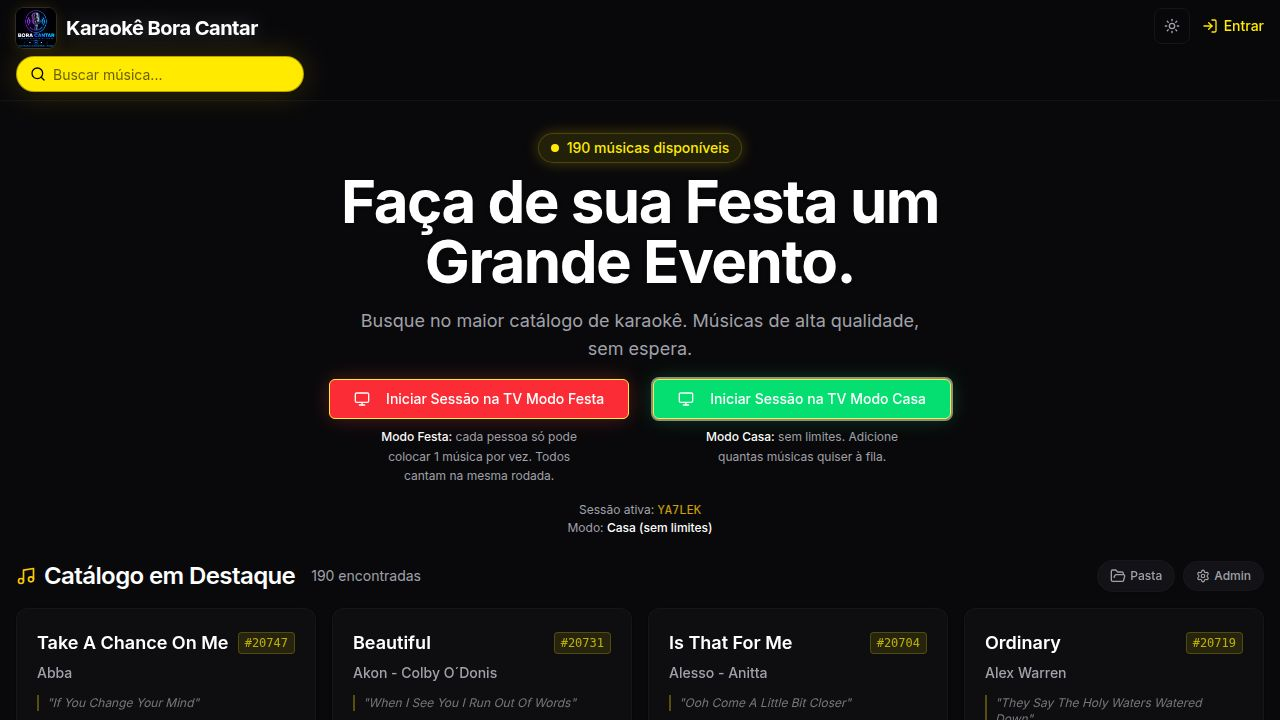
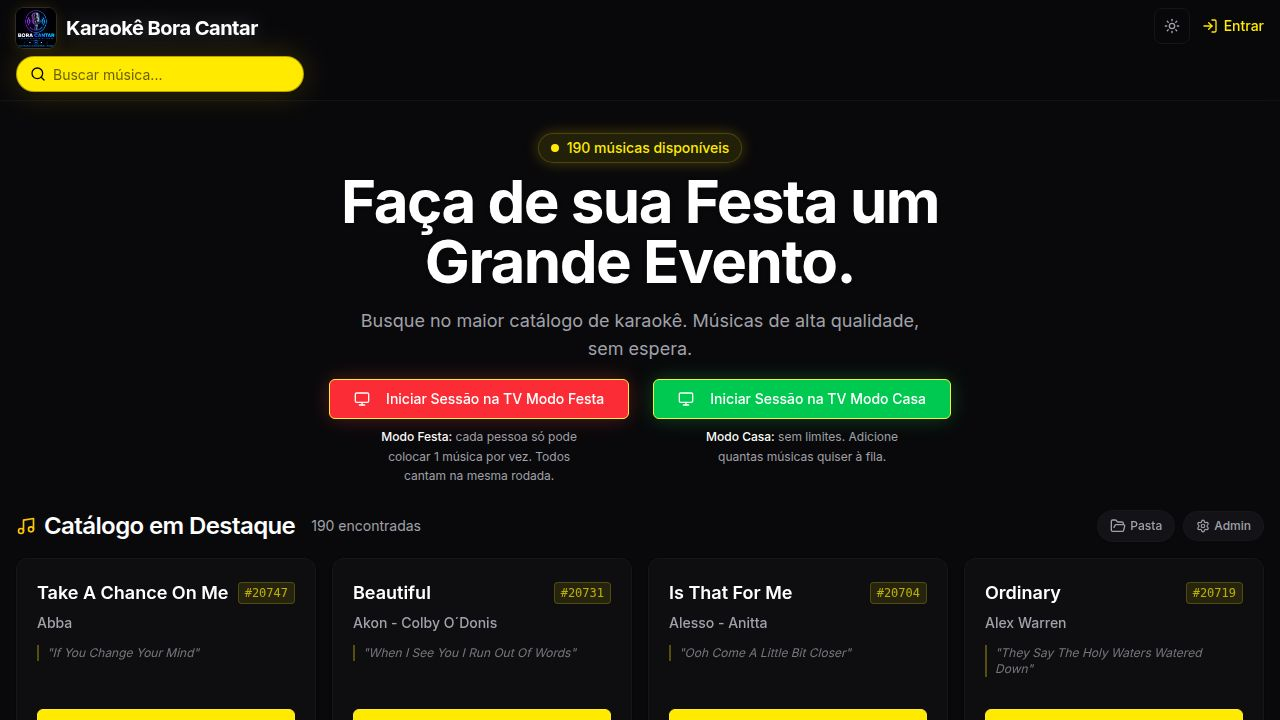
Add toggle for scoring in karaoke player and home screen
Introduces a toggle button for enabling/disabling scoring in the karaoke application, affecting the player and home screen. The state is persisted using localStorage. The `useScoringEnabled` hook manages the scoring state and its persistence.

Replit-Commit-Author: Agent
Replit-Commit-Session-Id: e0b9e7b8-9c89-4981-a677-37e2313ad79d
Replit-Commit-Checkpoint-Type: full_checkpoint
Replit-Commit-Event-Id: 85816483-0313-463d-994b-a2d636a0a7a3
Replit-Commit-Screenshot-Url: https://storage.googleapis.com/screenshot-production-us-central1/de3e7edc-04e4-467b-baa6-59e45426ee6b/e0b9e7b8-9c89-4981-a677-37e2313ad79d/kP1pvee
Replit-Helium-Checkpoint-Created: true

diff --git a/artifacts/karaoke/src/pages/tv.tsx b/artifacts/karaoke/src/pages/tv.tsx
@@ -6,6 +6,7 @@ import { useToast } from "@/hooks/use-toast";
 import type { SessionQueueItem } from "@/contexts/session-context";
 import { useLocalMusic } from "@/contexts/local-music-context";
 import { useDebounce } from "@/hooks/use-debounce";
+import { useScoringEnabled } from "@/hooks/use-scoring";
 import { Button } from "@/components/ui/button";
 import { Input } from "@/components/ui/input";
 import QRCode from "react-qr-code";
@@ -192,6 +193,9 @@ export default function TVPage() {
   const [showScore, setShowScore] = useState(false);
   const [videoKey, setVideoKey] = useState(0);
 
+  // Scoring toggle
+  const [scoringEnabled, setScoringEnabled] = useScoringEnabled();
+
   // TV-side search panel
   const [showSearch, setShowSearch] = useState(false);
   const [searchTerm, setSearchTerm] = useState("");
@@ -222,8 +226,13 @@ export default function TVPage() {
   }, [session?.currentSongId]);
 
   const handleVideoEnd = useCallback(() => {
-    setShowScore(true);
-  }, []);
+    if (scoringEnabled) {
+      setShowScore(true);
+    } else {
+      // Skip score, go straight to transition countdown
+      handleNext();
+    }
+  }, [scoringEnabled]);
 
   const [skipError, setSkipError] = useState<string | null>(null);
   const [isTransitioning, setIsTransitioning] = useState(false);
@@ -366,6 +375,19 @@ export default function TVPage() {
                 {session.mode === "party" ? "Modo Festa" : "Modo Casa"}
               </Button>
             )}
+            <Button
+              size="sm"
+              variant="ghost"
+              className={`h-7 px-2.5 text-[10px] rounded-full border transition-colors ${
+                scoringEnabled
+                  ? "bg-primary/20 border-primary/50 text-primary hover:bg-primary/30"
+                  : "bg-white/5 border-white/20 text-white/60 hover:bg-white/10"
+              }`}
+              onClick={() => setScoringEnabled(!scoringEnabled)}
+              title={scoringEnabled ? "Desativar pontuação" : "Ativar pontuação"}
+            >
+              {scoringEnabled ? "Com Pontuação" : "Sem Pontuação"}
+            </Button>
           </div>
 
           {/* Queue — flows right after Sessão, wraps like notebook lines */}

diff --git a/artifacts/karaoke/src/hooks/use-scoring.ts b/artifacts/karaoke/src/hooks/use-scoring.ts
@@ -1,0 +1,25 @@
+import { useState, useCallback } from "react";
+
+const STORAGE_KEY = "karaoke-ct-scoring-enabled";
+
+export function useScoringEnabled(): [boolean, (v: boolean) => void] {
+  const [enabled, setEnabled] = useState(() => {
+    try {
+      const stored = localStorage.getItem(STORAGE_KEY);
+      return stored === null ? true : stored === "true";
+    } catch {
+      return true;
+    }
+  });
+
+  const setScoring = useCallback((value: boolean) => {
+    setEnabled(value);
+    try {
+      localStorage.setItem(STORAGE_KEY, String(value));
+    } catch {
+      // ignore
+    }
+  }, []);
+
+  return [enabled, setScoring];
+}

diff --git a/artifacts/karaoke/src/pages/home.tsx b/artifacts/karaoke/src/pages/home.tsx
@@ -1,6 +1,6 @@
 import { useState, useMemo, useCallback } from "react";
 import { Link, useLocation } from "wouter";
-import { Play, Music, Mic2, Monitor, Settings, FolderOpen, Plus } from "lucide-react";
+import { Play, Music, Mic2, Monitor, Settings, FolderOpen, Plus, Trophy } from "lucide-react";
 import { Button } from "@/components/ui/button";
 import { Skeleton } from "@/components/ui/skeleton";
 import { Card, CardContent } from "@/components/ui/card";
@@ -10,6 +10,7 @@ import { Layout } from "@/components/layout";
 import { useSession } from "@/hooks/use-session";
 import { useSearch } from "@/contexts/search-context";
 import { useLocalMusic } from "@/contexts/local-music-context";
+import { useScoringEnabled } from "@/hooks/use-scoring";
 import { toast } from "@/hooks/use-toast";
 import { AddToQueueDialog, type QueueCandidate } from "@/components/add-to-queue-dialog";
 
@@ -22,6 +23,7 @@ export default function Home() {
   const [page, setPage] = useState(1);
   const [startingSession, setStartingSession] = useState(false);
   const [pendingItem, setPendingItem] = useState<QueueCandidate | null>(null);
+  const [scoringEnabled, setScoringEnabled] = useScoringEnabled();
 
   useMemo(() => { setPage(1); }, [debouncedSearch]);
 
@@ -166,9 +168,23 @@ export default function Home() {
         </div>
 
           {session && (
-            <div className="text-xs text-muted-foreground text-center">
+            <div className="text-xs text-muted-foreground text-center space-y-1">
               <p>Sessão ativa: <span className="font-mono text-primary/80 dark:text-yellow-400/80">{session.id}</span></p>
-              <p className="mt-0.5">Modo: <span className="font-medium text-foreground">{session.mode === "party" ? "Festa (1 música por pessoa)" : "Casa (sem limites)"}</span></p>
+              <p>Modo: <span className="font-medium text-foreground">{session.mode === "party" ? "Festa (1 música por pessoa)" : "Casa (sem limites)"}</span></p>
+              <Button
+                size="sm"
+                variant="ghost"
+                className={`h-6 px-2.5 text-[10px] rounded-full border transition-colors mt-1 ${
+                  scoringEnabled
+                    ? "bg-primary/20 border-primary/50 text-primary hover:bg-primary/30"
+                    : "bg-white/5 border-white/20 text-white/60 hover:bg-white/10"
+                }`}
+                onClick={() => setScoringEnabled(!scoringEnabled)}
+                title={scoringEnabled ? "Desativar pontuação" : "Ativar pontuação"}
+              >
+                <Trophy className="h-3 w-3 mr-1" />
+                {scoringEnabled ? "Com Pontuação" : "Sem Pontuação"}
+              </Button>
             </div>
           )}
       </div>